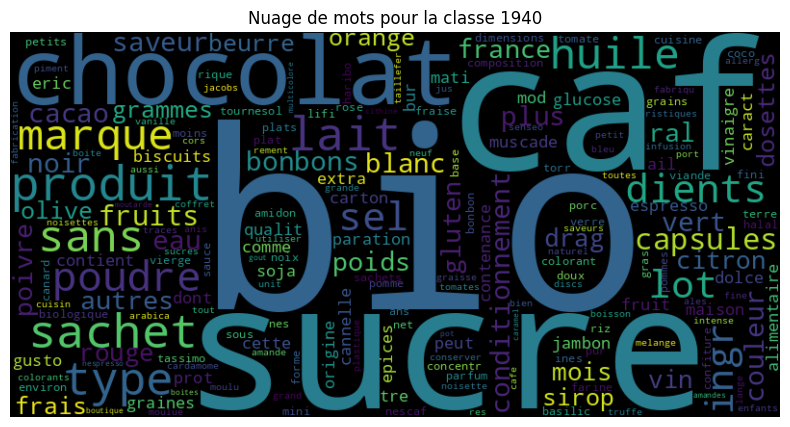
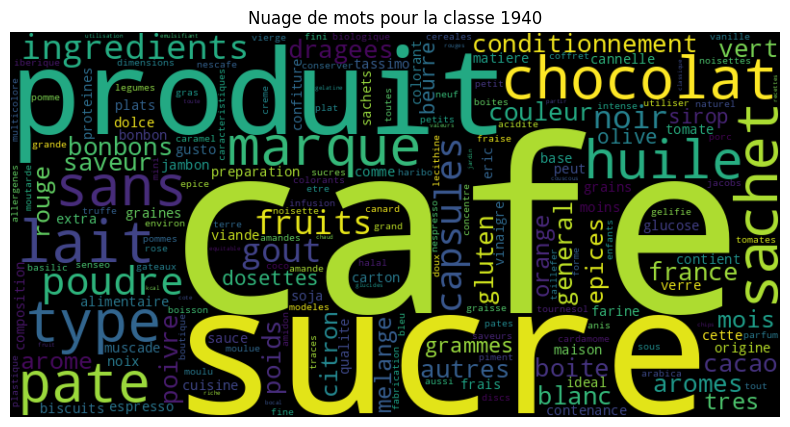
fix : retirer les accents avant de supprimer les caractères spéciaux

diff --git a/src/models/preprocessing.py b/src/models/preprocessing.py
@@ -24,6 +24,7 @@ from nltk.stem.snowball import FrenchStemmer
 from language_labels import language_labels
 from langdetect import detect, lang_detect_exception, DetectorFactory
 from collections import Counter
+from unidecode import unidecode
 from deep_translator import GoogleTranslator
 from wordcloud import WordCloud
 from PIL import Image 
@@ -57,39 +58,33 @@ def clean_column_descriptif(texte):
 
     words = set(stopwords.words())
 
-    # Tokenisation
-    # texte = word_tokenize(texte)
-
     # Retrait des espaces excessifs
     texte = re.sub("\s{2,}", " ", texte)
 
     # Mettre en minuscule
     texte = texte.lower()
 
-    # Supprimer les noms de fichiers (jpg, jpeg, png, gif, pdf)
-    # texte = re.sub(r'\b\w+\.(jpg|jpeg|png|gif|pdf)\b', '', texte)
-
-    # Supprimer les URLs
-    # texte = re.sub(r'http\S+', '', texte)
-
     # Supprimer les balises HTML
     texte = BeautifulSoup(texte, "html.parser").get_text()
 
-    # Supprimer les nombres et caractères spéciaux
+    # Supprimer les nombres 
     texte = re.sub('\d+', '', texte)
-    # Attention : les caractères spéciaux semblent supprimer les accents (ex : é)
+
+    # Supprimer les caractères accentués
+    texte = unidecode(texte)
+
+    # Supprimer les caractères spéciaux
     texte = re.sub("[^a-zA-Z]", " ", texte)
 
     # On traduit chaques mots de texte en français
-    # print(texte)
     # texte = GoogleTranslator(source='auto', target='fr').translate(texte)
 
-    # Supprimer les stopwords et les mots de moins de 3 lettres
+    # Supprimer les stopwords et les mots de moins de 4 lettres
     texte = ' '.join([word for word in texte.split() if word not in words])
-    texte = ' '.join([word for word in texte.split() if len(word) > 2])
+    texte = ' '.join([word for word in texte.split() if len(word) > 3])
 
-    # print(texte)
-    # print()
+    # Tokenisation
+    # texte = word_tokenize(texte)
 
     # Racinisation et lemmatisation
     # stemmer = FrenchStemmer()
@@ -97,7 +92,7 @@ def clean_column_descriptif(texte):
 
     return texte
 
-def nettoyer_et_separer(description):
+def get_list_mots(description):
     mots = re.findall(r'\b\w+\b', description)  # extraire les mots
     return mots
 
@@ -107,7 +102,7 @@ def word_occurence_by_prdtypecode(X, y):
     df['descriptif'] = X['descriptif']
 
     # Appliquer la fonction de nettoyage à chaque ligne de la colonne 'designation'
-    df['mots'] = df['descriptif'].apply(nettoyer_et_separer)
+    df['mots'] = df['descriptif'].apply(get_list_mots)
 
     # Initialiser un dictionnaire vide pour stocker les compteurs par classe
     compteurs_par_classe = {}
@@ -134,7 +129,7 @@ def nuage_de_mots(df_result):
 
 def pre_processing():
 
-    # Vérification des images
+    print("Pre-processing des images\n")
     pre_processing_image()
 
     print("Fusion des colonnes description et designation\n")
@@ -147,11 +142,9 @@ def pre_processing():
     else:
         df_lang=pd.DataFrame(X['descriptif'].apply(detect_lang))
         df_lang.to_csv('data/df_lang_preprocessed.csv')
-    
     print(df_lang.value_counts())
     print("nombre d'éléments total =", len(df_lang))
  
-
     print("Nettoyage de la colonne descriptif\n")
     if os.path.exists("data/X_preprocessed.csv"):
         X = pd.read_csv('data/X_preprocessed.csv')
@@ -170,7 +163,6 @@ def pre_processing():
     X_train, X_test, y_train, y_test = re_echantillonage(X,y)
 
     return X_train, X_test, y_train, y_test
-
 
 def pre_processing_image():
     for filename in os.listdir("data/images/image_train"):
